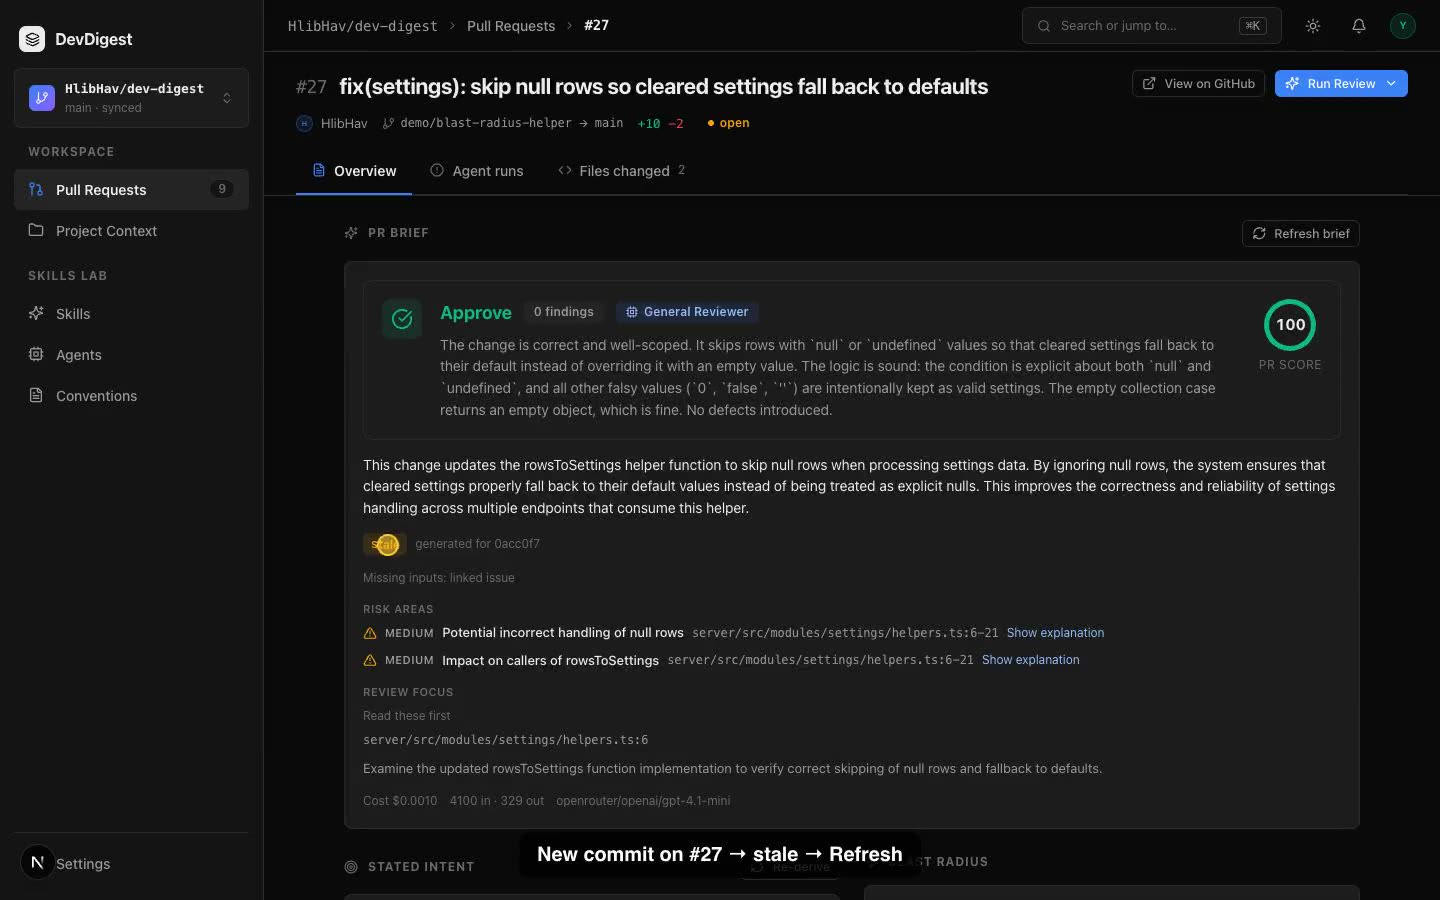
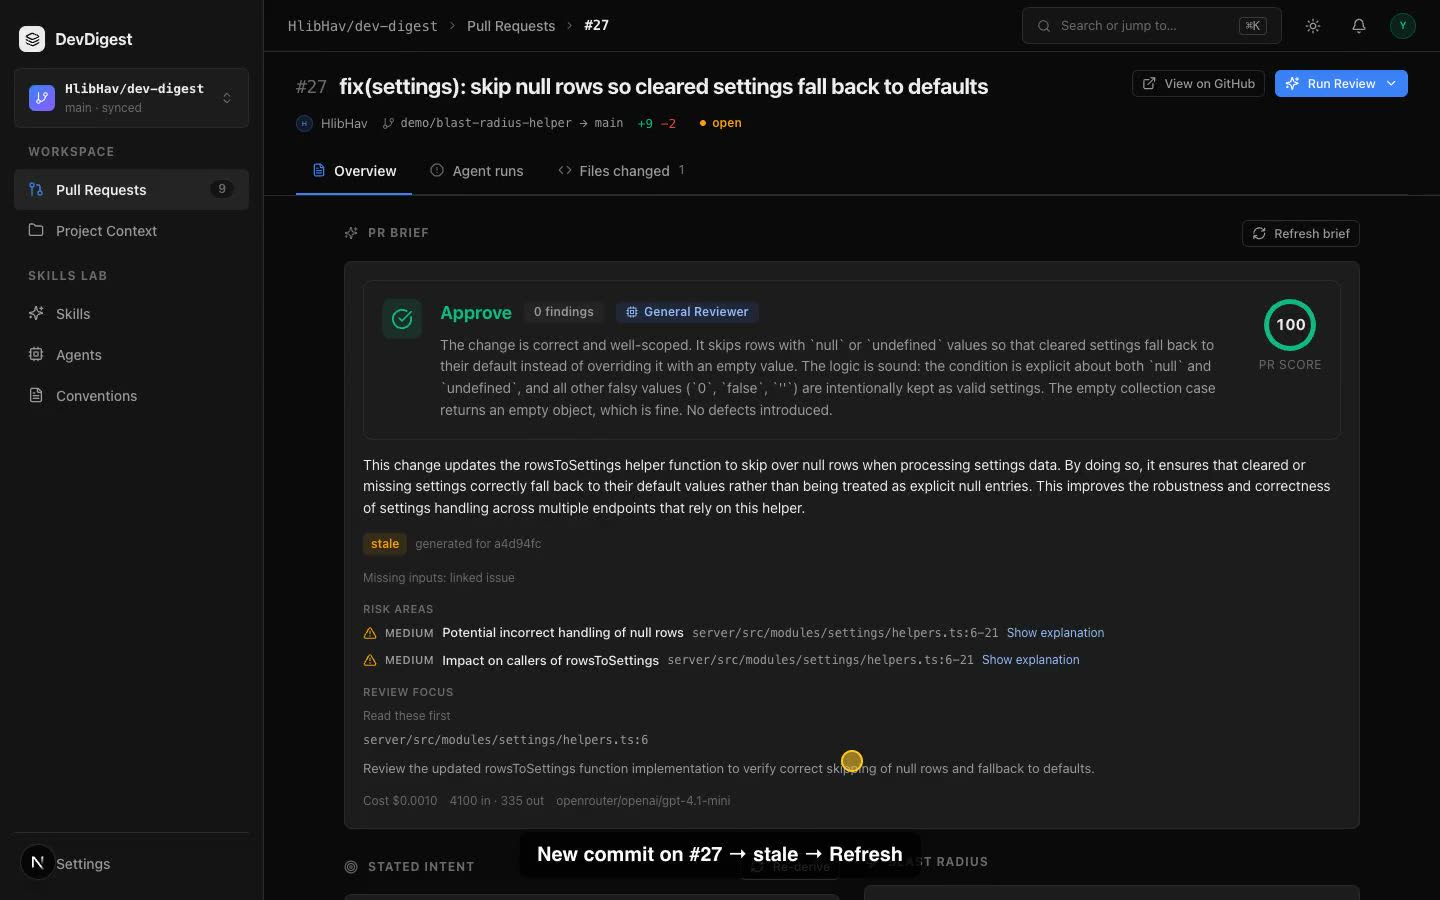
docs(pr-brief): final demo take evidence (Intent/Blast beside the brief, spec and plan on GitHub)

Changed region(s): [[0.25, 0.4978, 0.9375, 0.6222], [0.25, 0.84, 0.75, 0.8711], [0.4375, 0.1244, 0.5312, 0.1556]]

diff --git a/docs/plans/2026-10-03-pr-brief.verify.md b/docs/plans/2026-10-03-pr-brief.verify.md
@@ -102,16 +102,16 @@ Unmapped hunks (delta): `kind` capped at 64 (`helpers.ts`); `sanitizeBriefFacts`
 
 **AC-56 — met.** Dev stack on the merged tree (API :3201, web :3200, `feat/pr-brief` at 919d27c), demo PR #27 (`demo/blast-radius-helper`). Risk Brief model: registry default `openrouter / openai/gpt-4.1-mini` (no workspace override). Intent derived once, one General Reviewer run (approve, 100) for the banner.
 
-Final take (the video in the PR), API log, `brief:` lines only:
+Final take (the video in the PR, 2:21), API log, `brief:` lines only:
 
 | time | action | log |
 |---|---|---|
-| 18:21:31 | Generate brief | `brief: generated` · model openrouter/openai/gpt-4.1-mini · attempts 1 · tokensIn 4100 · tokensOut 329 · costUsd 0.000976 · inputTokens 3920 · truncatedInputs [] · dropped 0/0 · outcome ok |
-| — | click Review focus → Files changed, line 6 outlined; back to Overview; reload | none (GETs only) |
-| — | `docs/demo/pr-brief-stale-note.md` pushed to #27 (head 0acc0f7 → a4d94fc), reload | none; card shows **stale · generated for 0acc0f7** |
-| 18:22:44 | Refresh brief | `brief: generated` · attempts 1 · tokensIn 4100 · tokensOut 355 · costUsd 0.0010176 · outcome ok |
+| 18:29:54 | Generate brief (head a4d94fc) | `brief: generated` · model openrouter/openai/gpt-4.1-mini · attempts 1 · tokensIn 4100 · tokensOut 335 · costUsd 0.0009856 · inputTokens 3920 · truncatedInputs [] · dropped 0/0 · outcome ok |
+| — | scroll: Intent and Blast radius cards beside the brief; expand a risk; click Review focus → Files changed, line 6 outlined; back to Overview; reload | none (GETs only) |
+| — | demo note deleted on #27 (head a4d94fc → 6886791, diff back to one file), reload | none; card shows **stale · generated for a4d94fc** |
+| 18:31:16 | Refresh brief | `brief: generated` · attempts 1 · tokensIn 4077 · tokensOut 367 · costUsd 0.001066 · inputTokens 3897 · outcome ok; stored brief now at 6886791, `stale` false |
 
-Two model calls for two user actions, zero for reloads. `missing_inputs` = [`issue`] (#27 links no issue); `specs` was not missing (2 attached docs read). Screenshots: `2026-10-03-pr-brief.assets/ac56-*.jpg` (generate, brief, risk expanded, Files changed at the line, after reload, stale, refreshed).
+Two model calls for two user actions, zero for reloads. `missing_inputs` = [`issue`] (#27 links no issue); `specs` was not missing (2 attached docs read). Screenshots: `2026-10-03-pr-brief.assets/ac56-*.jpg` (generate, brief, Intent + Blast radius beside it, risk expanded, Files changed at the line, after reload, stale, refreshed, spec on GitHub).
 
 **Delivery:**
 
@@ -119,7 +119,7 @@ Two model calls for two user actions, zero for reloads. `missing_inputs` = [`iss
 |---|---|---|
 | AC-D1 | met | PR #34 lists `specs/2026-10-03-pr-brief.md` and `docs/plans/2026-10-03-pr-brief.md` |
 | AC-D2 | met | `git log`: cf71a98 spec → a8f713f plan → 310ef83 lane 0 → first feature/test commits |
-| AC-D3 | met | PR #34 description + demo video (`devdigest_hw5-pr-brief-demo_v1-vo.mp4`, 2:08) |
+| AC-D3 | met | PR #34 description + demo video (`devdigest_hw5-pr-brief-demo_v1-vo.mp4`, 2:21; shows spec.md, plan.md and this report on GitHub) |
 | AC-D4 | met | PR #34 description, "Cross-model review" (deepseek-v3.2, 12 findings, disposition) |
 | AC-D5 | met | this file; AC-1..AC-55 met, PV-1 accepted |
 | AC-D6 | met | `docs/retro/2026-10-03-pr-brief-retro.md` (retro + token/cost report) |
